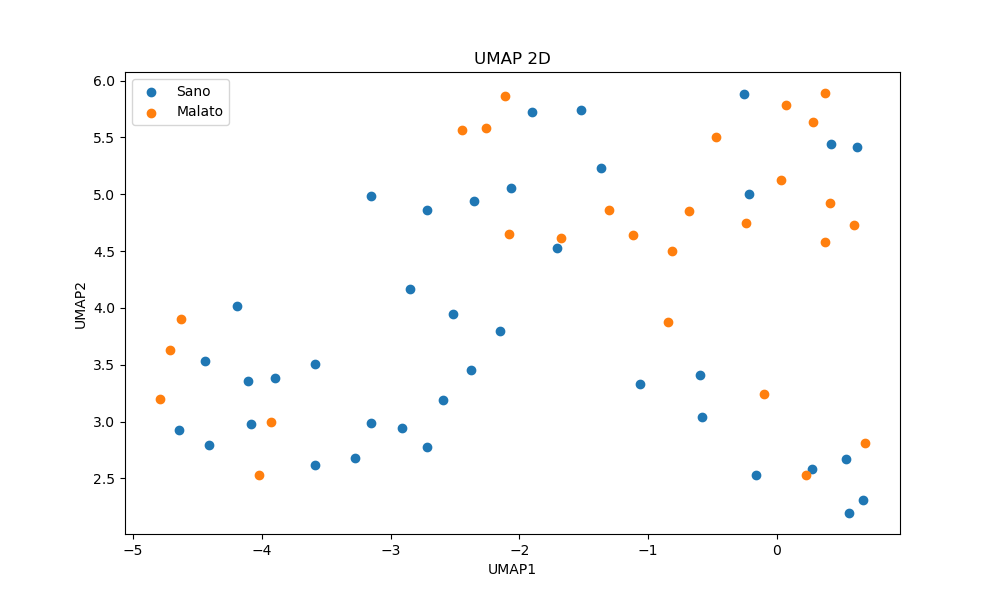
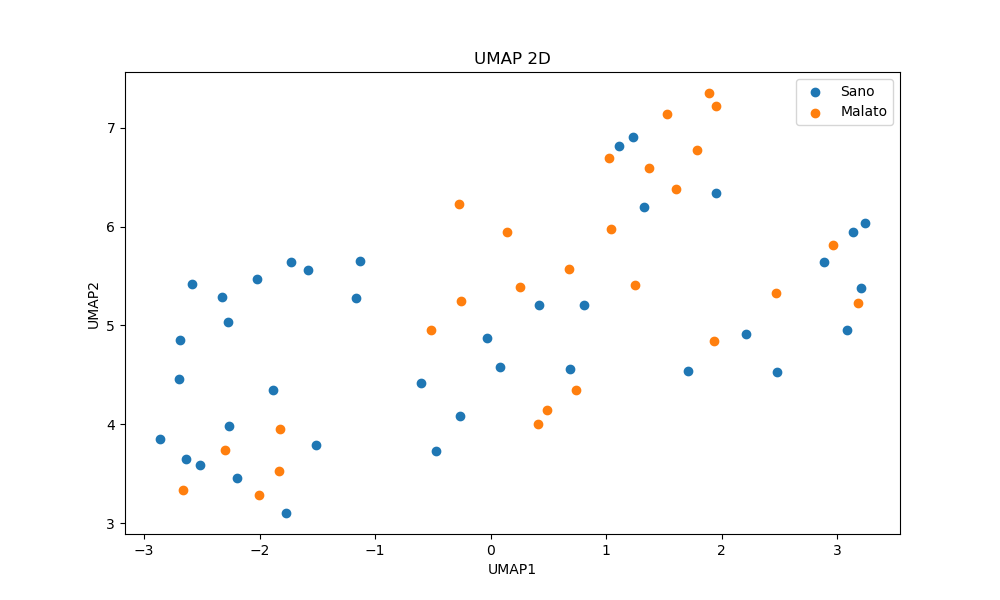
Changed random state for UMAP, plots and clustering results updated

diff --git a/UMAP.py b/UMAP.py
@@ -124,7 +124,7 @@ labels = merged_df['Infarto silente'].copy()
 features_scaled=StandardScaler().fit_transform(features)
 
 # Apply UMAP
-reducer = umap.UMAP(n_components=2, n_neighbors=5, init='pca', metric="euclidean", learning_rate=0.5, n_epochs=500,random_state=42)
+reducer = umap.UMAP(n_components=2, n_neighbors=5, init='pca', metric="euclidean", learning_rate=0.5, n_epochs=500,random_state=24)
 umap_result = reducer.fit_transform(features_scaled)
 
 # Create a DataFrame for the UMAP results
@@ -211,7 +211,7 @@ min_max_scaler = MinMaxScaler()
 features_scaled = min_max_scaler.fit_transform(features)
 
 # Apply UMAP
-reducer = umap.UMAP(n_components=2, n_neighbors=5, init='pca', metric="euclidean", learning_rate=0.5, n_epochs=500,random_state=42)
+reducer = umap.UMAP(n_components=2, n_neighbors=5, init='pca', metric="euclidean", learning_rate=0.5, n_epochs=500,random_state=24)
 umap_result = reducer.fit_transform(features_scaled)
 
 # Create a DataFrame for the UMAP results
